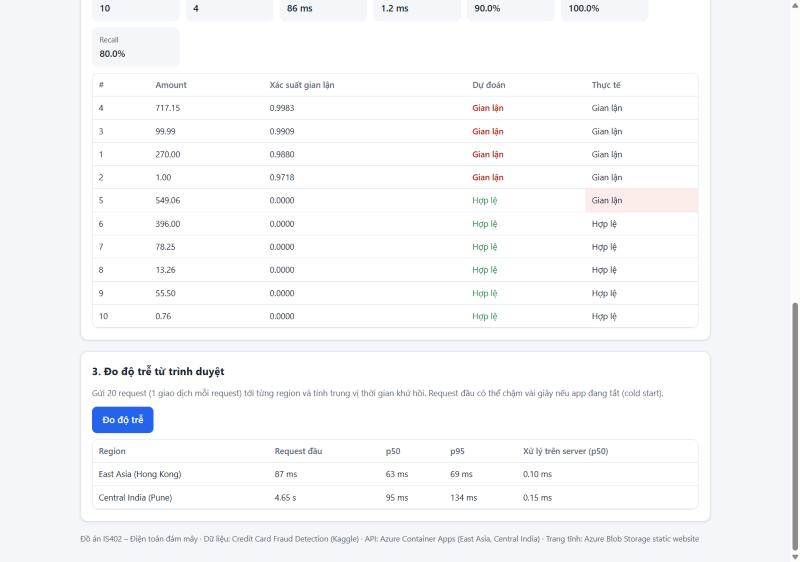
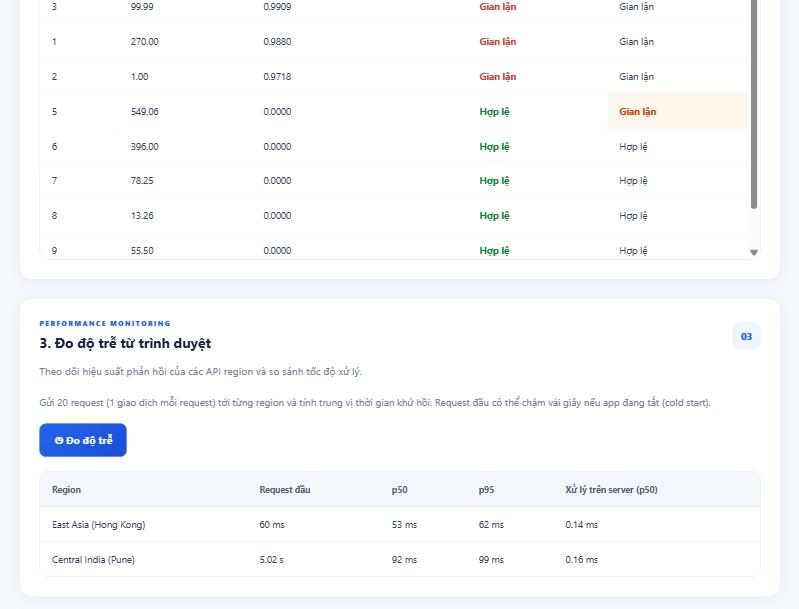
fix(web): chu hero bi bo hep tren dien thoai; cap nhat anh minh chung web
- Man hinh <= 650px: tra phan chu hero ve 100% chieu ngang (gioi han
  58% chi danh cho tablet), tieu de khong con bi ngat 4 dong.
- Chup lai anh minh chung m4-16, m4-19, m4-20, m4-21 tu trang that tren
  Azure static website sau khi doi giao dien.

diff --git a/web/style.css b/web/style.css
@@ -1434,6 +1434,10 @@ a:hover {
     min-height: 0;
   }
 
+  .hero-content {
+    max-width: 100%;
+  }
+
   .card {
     padding: 18px;
     border-radius: 13px;
